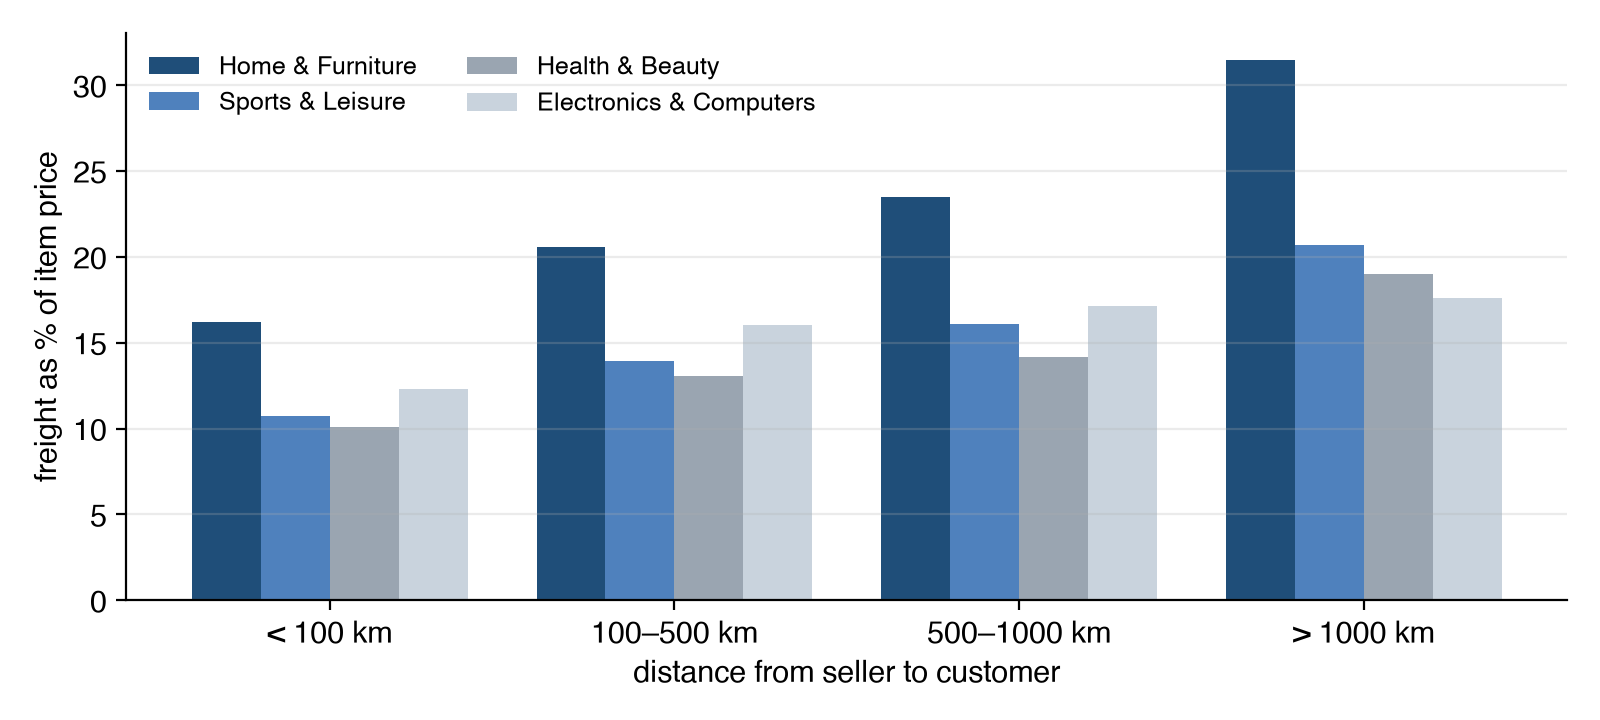
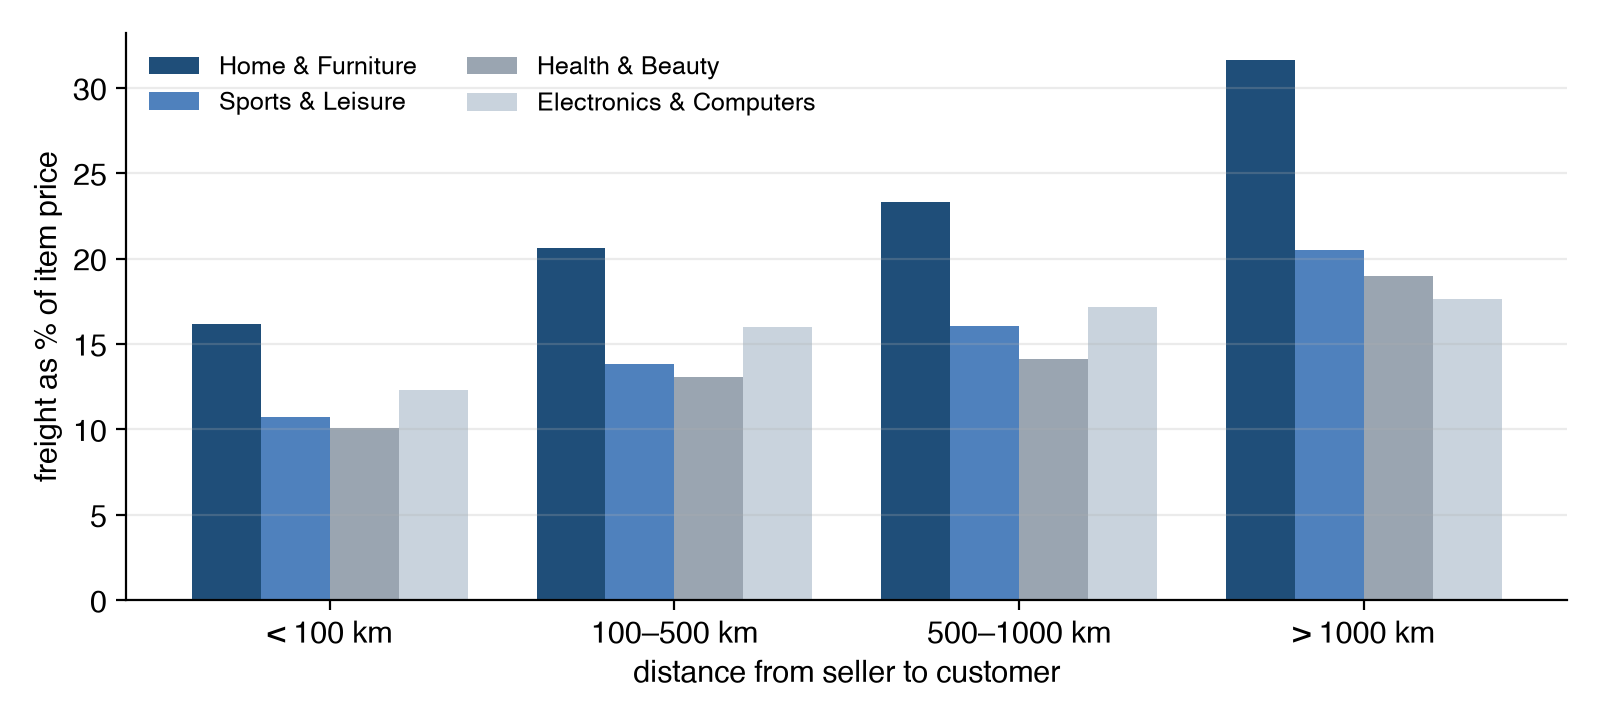
docs: refresh OLAP figures, slides and charts after the macro-category review

diff --git a/docs/slides/index.html b/docs/slides/index.html
@@ -228,14 +228,14 @@ ORDER BY order_id,
     <div class="col">
       <table>
         <tr><th>macro-category</th><th class="n">revenue</th><th class="n">share</th></tr>
-        <tr><td>Home &amp; Furniture</td><td class="n">2,821,271</td><td class="n">21.3 %</td></tr>
-        <tr><td>Sports &amp; Leisure</td><td class="n">2,233,862</td><td class="n">16.9 %</td></tr>
+        <tr><td>Home &amp; Furniture</td><td class="n">2,853,087</td><td class="n">21.6 %</td></tr>
+        <tr><td>Sports &amp; Leisure</td><td class="n">2,220,659</td><td class="n">16.8 %</td></tr>
         <tr><td>Electronics &amp; Computers</td><td class="n">1,841,712</td><td class="n">13.9 %</td></tr>
         <tr><td>Health &amp; Beauty</td><td class="n">1,623,276</td><td class="n">12.3 %</td></tr>
         <tr><td>Fashion &amp; Accessories</td><td class="n">1,502,217</td><td class="n">11.4 %</td></tr>
-        <tr><td class="muted">7 more</td><td class="n muted">1,199,160</td><td class="n muted">24.2 %</td></tr>
+        <tr><td class="muted">7 more</td><td class="n muted">3,180,547</td><td class="n muted">24.1 %</td></tr>
       </table>
-      <p class="small" style="margin-top:8pt"><b>Drill-down</b> into Home &amp; Furniture: three categories (<code>bed_bath_table</code>, <code>furniture_decor</code>, <code>housewares</code>) make 83 % of it; <code>housewares</code> grew +76 % from 2017 to 2018.</p>
+      <p class="small" style="margin-top:8pt"><b>Drill-down</b> into Home &amp; Furniture: three categories (<code>bed_bath_table</code>, <code>furniture_decor</code>, <code>housewares</code>) make 82 % of it; <code>housewares</code> grew +76 % from 2017 to 2018.</p>
     </div>
     <div class="col">
       <table>
@@ -322,9 +322,9 @@ ORDER BY order_id,
   <div class="cols">
     <div class="col-2"><img src="img/freight_by_distance.png" style="width:100%"></div>
     <div class="col small">
-      <p>Freight is <b>17.6 %</b> of revenue overall: 12.7 % under 100 km, 21.6 % over 1000 km. Home &amp; Furniture over 1000 km: <b>31.5 %</b>. Electronics has the most lines where shipping ≥ price (7.9 %: cheap accessories).</p>
+      <p>Freight is <b>17.6 %</b> of revenue overall: 12.7 % under 100 km, 21.6 % over 1000 km. Home &amp; Furniture over 1000 km: <b>31.6 %</b>. Electronics has the most lines where shipping ≥ price (7.9 %: cheap accessories).</p>
       <div class="kpi" style="margin-top:14pt"><div><div class="v">127</div><div class="l">sellers (4.3 % of 2,970) make 50 % of revenue; 533 (18 %) make 80 %; the top 100 make 45.5 %</div></div></div>
-      <p class="tiny">Concentration is highest in Fashion (top 3 sellers = 36.5 %) and lowest in Sports &amp; Leisure (12.8 %, 858 sellers). The largest seller has 1.72 %.</p>
+      <p class="tiny">Concentration is highest in Fashion (top 3 sellers = 36.5 %) and lowest in Sports &amp; Leisure (12.9 %, 839 sellers). The largest seller has 1.72 %.</p>
     </div>
   </div>
   <div class="footer"><span>Data Management 2025/26 — Olist Data Warehouse</span><span>13</span></div>

diff --git a/docs/OLAP.md b/docs/OLAP.md
@@ -30,14 +30,14 @@ level of each row. Then drill-down into the largest macro-category, split by yea
 
 | macro-category | lines | revenue | share |
 |---|---:|---:|---:|
-| Home & Furniture | 29,005 | 2,821,271 | 21.3 % |
-| Sports & Leisure | 17,022 | 2,233,862 | 16.9 % |
+| Home & Furniture | 29,347 | 2,853,087 | 21.6 % |
+| Sports & Leisure | 16,830 | 2,220,659 | 16.8 % |
 | Electronics & Computers | 16,869 | 1,841,712 | 13.9 % |
 | Health & Beauty | 12,805 | 1,623,276 | 12.3 % |
 | Fashion & Accessories | 9,511 | 1,502,217 | 11.4 % |
-| … 7 more | | | 24.2 % |
+| … 7 more | | | 24.1 % |
 
-**Drill-down (Home & Furniture).** Three categories make 83 % of it: `bed_bath_table` (1.02 M),
+**Drill-down (Home & Furniture).** Three categories make 82 % of it: `bed_bath_table` (1.02 M),
 `furniture_decor` (0.71 M), `housewares` (0.62 M). `housewares` grew most between 2017 and 2018 (+76 %).
 
 **Reading.** Five macro-categories cover three quarters of revenue. The top level is useful because the 73
@@ -149,12 +149,12 @@ one query; `freight_ratio = freight / price` per line.
 
 **Result.**
 - Freight is 17.6 % of revenue overall; 12.7 % under 100 km, 21.6 % over 1000 km.
-- By macro-category: Food & Drink 25.9 % and **Home & Furniture 22.2 %** (31.5 % over 1000 km — bulky items);
+- By macro-category: Food & Drink 25.9 % and **Home & Furniture 22.2 %** (31.6 % over 1000 km — bulky items);
   Fashion 11.2 % and Appliances 10.5 % (high prices).
 - Electronics & Computers has the highest share of lines where **shipping ≥ price: 7.9 %** (cheap accessories).
 
 **Reading.** Shipping cost depends on both what is shipped and how far: the cube shows the two effects
-adding up (Home & Furniture over 1000 km = 31.5 %).
+adding up (Home & Furniture over 1000 km = 31.6 %).
 
 ---
 
@@ -170,7 +170,7 @@ dice by macro-category for the share of the top 3 sellers.
   The top 100 sellers (3.4 %) make 45.5 %.
 - The biggest seller has 1.72 % of revenue (Fashion, Guariba SP); 9 of the top 10 are in São Paulo state.
 - Concentration is highest in Fashion & Accessories (top 3 sellers = 36.5 %) and lowest in Sports & Leisure
-  (12.8 %, 858 sellers).
+  (12.9 %, 839 sellers).
 
 **Reading.** A long tail typical of marketplaces. Nothing here required a special structure: the star schema
 plus window functions answers it directly.
